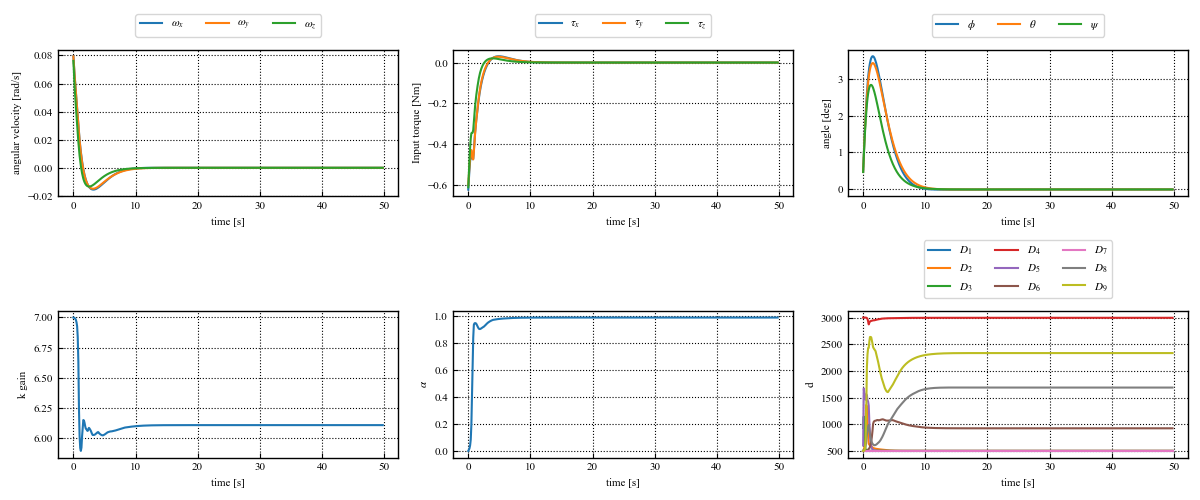
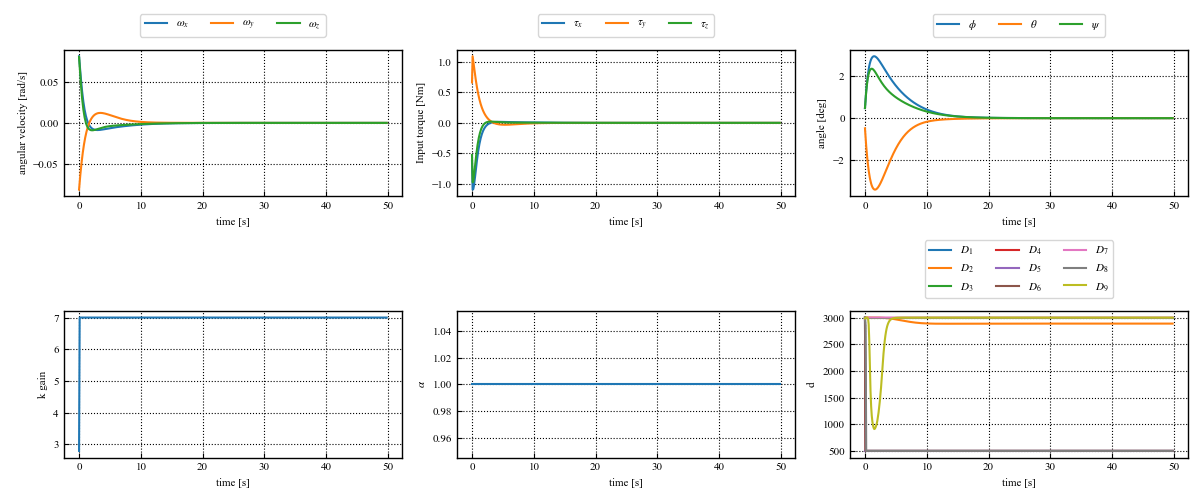
UPDATE: update reward

diff --git a/td3/environment.py b/td3/environment.py
@@ -149,7 +149,7 @@ class SatelliteContinuousEnv(gym.Env):
         self.q_weight =  1*20#1*20
         self.w_weight = 1.5*10#1.5*100
         self.action_weight = 0.25*3#0.25*10
-        self.action_rate_weight = 1
+        self.action_rate_weight = 4
         
         # 初期状態 角度(deg)　角速度(rad/s)
         # Rest to Rest
